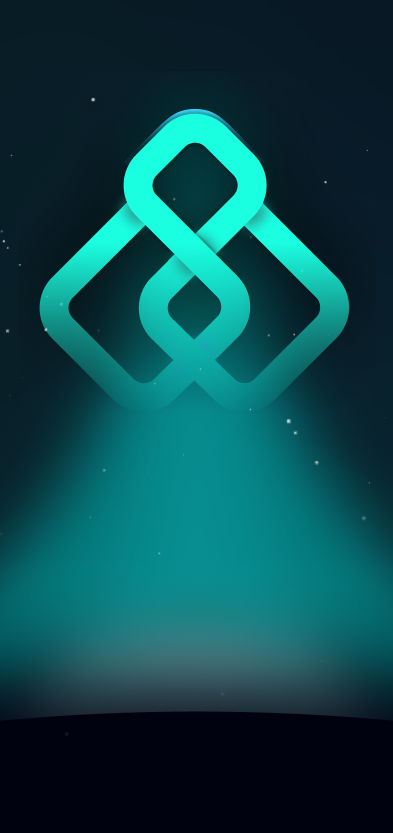
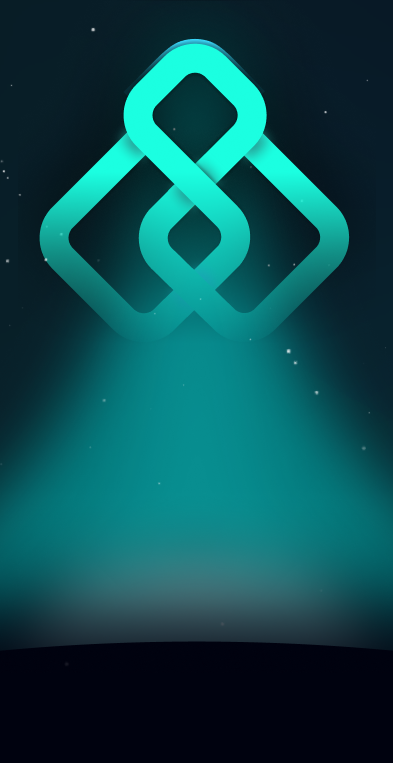
tablet portrait view alignment fixed

Changed region(s): [[0.0916, 0.0301, 0.8855, 0.4823], [0.0611, 0.8139, 0.9771, 0.8742]]

diff --git a/app/components/Topnav.tsx b/app/components/Topnav.tsx
@@ -291,7 +291,7 @@ useEffect(() => {
                 key={item.name}
                 onClick={() => handleMenuClick(item.name)}
                 onMouseEnter={() => handleMenuHover(item.name)}
-                className={` cursor-pointer
+                className={` cursor-pointer font-Poppins
                   relative px-5 py-2.5 rounded-full text-sm md:text-sm lg:text-[10px] xl:text-sm font-medium transition-all duration-300
                   ${
                     activeMenu === item.name
@@ -312,7 +312,7 @@ useEffect(() => {
                   <>
                     {item.name}
                     {item.superscript && (
-                      <sup className="text-xs ml-0.5">{item.superscript}</sup>
+                      <sup className="text-xs ml-0.5 font-Poppins">{item.superscript}</sup>
                     )}
                   </>
                 )}
@@ -330,7 +330,7 @@ useEffect(() => {
             <GradientGlowButton className="scale-90 sm:scale-95 md:scale-100 lg:scale-85">
               Get Started
             </GradientGlowButton>
-            <span className="hidden sm:inline text-xl md:text-xl lg:text-[16px] xl:text-xl   font-medium ml-5">Menu</span>
+            <span className="hidden sm:inline text-xl md:text-xl lg:text-[16px] xl:text-xl font-Poppins font-medium ml-5">Menu</span>
             <button
               onClick={() => setSideMenuOpen(!sideMenuOpen)}
               className="flex items-center gap-2 text-white"
@@ -392,7 +392,7 @@ useEffect(() => {
             <div className="p-8">
               {/* Services Header */}
             <div className="mb-6 lg:px-25 xl:px-50">
-              <h3 className="md:text-xl lg:text-xl xl:text-2xl font-semibold text-white mb-1">Services</h3>
+              <h3 className="md:text-xl lg:text-xl font-Poppins xl:text-2xl font-semibold text-white mb-1">Services</h3>
 
               <svg width="100" height="10" viewBox="0 0 120 12" fill="none">
                 <path
@@ -434,7 +434,7 @@ useEffect(() => {
                         />
                         <span
                         className={`
-                          text-[12px] md:text-[13px] lg:text-[13px] xl:text-[15px] font-medium
+                          text-[12px] md:text-[13px] lg:text-[13px] xl:text-[15px] font-medium font-Poppins
                           ${
                             activeServiceCategory === index
                               ? "text-transparent bg-clip-text bg-[linear-gradient(90deg,#00E6C3_0%,#00E6C3_70%,#FFFFFF_70%,#FFFFFF_100%)]"
@@ -478,7 +478,7 @@ useEffect(() => {
                             text-gray-300
                             group-hover:text-transparent group-hover:bg-clip-text
                             group-hover:bg-[linear-gradient(90deg,#00E6C3_0%,#00E6C3_70%,#FFFFFF_80%,#FFFFFF_100%)]
-                            transition-all duration-300
+                            transition-all duration-300 font-Poppins
                           "
                         >
                             {service}
@@ -512,7 +512,7 @@ useEffect(() => {
                 ${
                   activeMenu === item.name
                     ? "bg-[#2a2a2a] text-white"
-                    : "text-gray-400 hover:bg-[#252525] hover:text-white"
+                    : "text-gray-400 hover:bg-[#252525] hover:text-white font-Poppins"
                 }
                 ${index !== menuItems.length - 1 ? "border-b border-white/10" : ""}
               `}
@@ -542,7 +542,7 @@ useEffect(() => {
                   }
                 }}
                 className={`
-                  flex-1 relative rounded-3xl px-2 py-2 text-[10px] sm:text-xs font-medium transition-all duration-300
+                  flex-1 relative rounded-3xl px-2 py-2 text-[10px] sm:text-xs font-medium transition-all duration-300 font-Poppins
                   ${
                     activeMenu === item.name
                       ? "bg-[radial-gradient(circle_at_50%_50%,#4b4c4e_0%,#4b4c4e_55%,rgba(255,255,255,0.10)_75%,rgba(255,255,255,0.04)_110%,#2b2c2e_110%)] text-cyan-300"
@@ -587,7 +587,7 @@ useEffect(() => {
                   <button
                     onClick={() => toggleMobileCategory(category.name + catIndex)}
                     className={`
-                      w-full flex items-center justify-between px-4 py-3
+                      w-full flex items-center justify-between px-4 py-3 font-Poppins
                       text-left bg-[#00020F] hover:bg-[#1a2b3a] transition-all duration-200
                       rounded-lg
                       border-x border-t border-[#444444] 
@@ -603,7 +603,7 @@ useEffect(() => {
 
                       <span
                         className={`
-                          text-sm font-medium transition-all
+                          text-sm font-medium transition-all font-Poppins
                           ${
                             isOpen
                               ? "text-transparent bg-clip-text bg-[linear-gradient(90deg,#00E6C3_0%,#00E6C3_70%,#FFFFFF_70%,#FFFFFF_100%)]"
@@ -642,7 +642,7 @@ useEffect(() => {
                             hover:bg-[#1a2b3a]
                             hover:bg-clip-text
                             hover:bg-[linear-gradient(90deg,#00E6C3_0%,#00E6C3_70%,#FFFFFF_70%,#FFFFFF_100%)]
-                            transition-all duration-200
+                            transition-all duration-200 font-Poppins
                           "
                         >
                           {service}
@@ -720,7 +720,7 @@ useEffect(() => {
                 alt="Return arrow"
                 className="w-6 h-6"
               />
-              <h2 className="lg:text-md xl:text-xl font-semibold text-white">Who We Are</h2>
+              <h2 className="lg:text-md xl:text-xl font-semibold text-white font-Poppins">Who We Are</h2>
             </div>
 
             {/* Menu Items */}
@@ -740,7 +740,7 @@ useEffect(() => {
                         className="w-full h-full object-cover"
                       />
                     </div>
-                    <span className=" font-bold text-[15px] text-gray-200 group-hover:text-cyan-300 transition-colors">
+                    <span className="font-Poppins font-bold text-[15px] text-gray-200 group-hover:text-cyan-300 transition-colors">
                       {item.name}
                     </span>
                   </div>
@@ -752,11 +752,11 @@ useEffect(() => {
 
             {/* Footer Links */}
             <div className="mt-8 text-center">
-              <a href="#privacy" className="text-white font-bold hover:text-cyan-300 transition-colors text-sm">
+              <a href="#privacy" className="text-white font-Poppins font-bold hover:text-cyan-300 transition-colors text-sm">
                 Privacy Policy
               </a>
               <span className="text-white font-bold mx-1">|</span>
-              <a href="#terms" className="text-white font-bold hover:text-cyan-300 transition-colors text-sm">
+              <a href="#terms" className="text-white font-Poppins font-bold hover:text-cyan-300 transition-colors text-sm">
                 Terms & Conditions
               </a>
             </div>
@@ -820,7 +820,7 @@ useEffect(() => {
                       className="w-full h-full object-cover"
                     />
                   </div>
-                  <span className="text-[15px] font-bold text-gray-200 group-hover:text-cyan-300 transition-colors">
+                  <span className="text-[15px] font-Poppins font-bold text-gray-200 group-hover:text-cyan-300 transition-colors">
                     {item.name}
                   </span>
                 </div>
@@ -832,11 +832,11 @@ useEffect(() => {
 
           {/* Footer Links */}
           <div className="mt-6 text-center">
-            <a href="#privacy" className="text-white hover:text-cyan-300 transition-colors text-sm">
+            <a href="#privacy" className="text-white font-Poppins hover:text-cyan-300 transition-colors text-sm">
               Privacy Policy
             </a>
             <span className="text-white mx-2">|</span>
-            <a href="#terms" className="text-white hover:text-cyan-300 transition-colors text-sm">
+            <a href="#terms" className="text-white font-Poppins hover:text-cyan-300 transition-colors text-sm">
               Terms & Conditions
             </a>
           </div>

diff --git a/app/components/RewardsSection.tsx b/app/components/RewardsSection.tsx
@@ -180,7 +180,7 @@ const RewardsSection: React.FC = () => {
           {awards.map((award) => (
             <div
               key={award.id}
-              className="flex-shrink-0 w-24 h-24 lg:w-50 lg:h-28  rounded-2xl  flex items-center justify-center "
+              className="flex-shrink-0 w-24 h-24   lg:w-50 lg:h-28  rounded-2xl  flex items-center justify-center "
             >
               <img
                 src={award.src}
@@ -252,12 +252,12 @@ const RewardsSection: React.FC = () => {
                   {loopAwards.map((award, index) => (
                     <div
                       key={`${award.id}-${index}`}
-                      className="flex-shrink-0 flex items-center justify-center"
+                      className="flex-shrink-0 flex items-center justify-center sm:rounded-2xl"
                       style={{ width: '33.333%' }}
 
                     >
                       <div
-                        className={`w-50 h-20 rounded-2xl p-1 flex items-center justify-center shadow-lg transition-all duration-300 ${
+                        className={`w-50 h-20 sm:w-40 sm:h-40 rounded-2xl sm:rounded-2xl p-1 sm:p-6 flex items-center justify-center shadow-lg transition-all duration-300 ${
                           Math.abs(index - currentIndex) <= 1
                             ? 'scale-100 opacity-100'
                             : 'scale-90 opacity-60'
@@ -266,7 +266,7 @@ const RewardsSection: React.FC = () => {
                         <img
                           src={award.src}
                           alt={award.alt}
-                          className="w-full h-full object-cover rounded-2xl"
+                          className="w-full h-full object-cover rounded-2xl sm:rounded-2xl"
                           draggable="false"
                         />
                       </div>

diff --git a/app/components/Hero.tsx b/app/components/Hero.tsx
@@ -27,17 +27,19 @@ const Hero = () => {
   ];
 
   return (
-<div
-  className="
-    w-full h-[100dvh] md:h-dvh lg:h-dvh xl:h-dvh
-    flex flex-col items-center
-    bg-cover bg-center bg-no-repeat relative overflow-hidden
-
-    bg-[url('/assets/images/hero-newbanner-mobile.png')]
-    md:bg-[url('/assets/images/hero-new-banner.png')]
-    lg:bg-[url('/assets/images/hero-new-banner.png')]
-  "
->
+    <section className="">
+          <div
+          className="
+            w-full h-[100dvh] md:h-dvh lg:h-dvh xl:h-dvh
+            flex flex-col items-center
+            bg-cover md:bg-center lg:bg-center xl:bg-center bg-no-repeat relative overflow-hidden
+            xl:pt-0 lg:pt-0 md:pt-0
+            bg-[url('/assets/images/hero-newbanner-mobile.png')]
+            sm:bg-[url('/assets/images/hero-newbanner-mobile.png')]
+            md:bg-[url('/assets/images/hero-new-banner.png')]
+            lg:bg-[url('/assets/images/hero-new-banner.png')]
+          "
+        >
 
      
 
@@ -91,7 +93,7 @@ const Hero = () => {
       </div>
 
       {/* Main Content */}
-      <div className="w-full flex-1 flex flex-col justify-center items-center px-4 mt-[65%] md:mt-[20%] lg:mt-[16%] xl:mt-[11%]  sm:px-6 md:px-10">
+      <div className="w-full flex-1 flex flex-col justify-center items-center px-4 mt-[65%] sm:mt-[75%] md:mt-[20%] lg:mt-[16%] xl:mt-[11%]  sm:px-6 md:px-10">
 
 
       <h1 className="
@@ -118,6 +120,7 @@ const Hero = () => {
         </GradientGlowButton>
       </div>
     </div>
+    </section>
   );
 };
 

diff --git a/app/components/BlockchainNetworks.tsx b/app/components/BlockchainNetworks.tsx
@@ -153,7 +153,7 @@ export default function BlockchainNetworks() {
     networks.find(n => n.id === activeNetwork) || networks[1];
 
   return (
-    <section className="relative min-h-screen bg-[#0a0e1a] py-20  md:py-10 md:px-2 lg:py-10 lg:px-2 xl:py-20 xl:px-2">
+    <section className="relative  md:h-unset lg:min-h-screen xl:min-h-screen bg-[#0a0e1a] py-20  md:py-10 md:px-2 lg:py-10 lg:px-2 xl:py-20 xl:px-2">
 
       <div className="max-w-7xl mx-auto">
 
@@ -172,8 +172,9 @@ export default function BlockchainNetworks() {
 
           {/* TABS */}
           <div className="grid grid-cols-6 gap-4
+                           sm:grid-cols-6
                           max-md:grid-cols-5 poin 
-                          max-sm:grid-cols-3 p-5 md:p-8 lg:p-8 xl:p-8 bg-[#12141E] md:rounded-t-3xl lg:rounded-t-3xl xl:rounded-t-3xl ">
+                           p-5 sm:p-5 md:p-8 lg:p-8 xl:p-8 bg-[#12141E] md:rounded-t-3xl lg:rounded-t-3xl xl:rounded-t-3xl ">
 
             {networks.map((network) => {
               const active = activeNetwork === network.id;
@@ -210,7 +211,7 @@ export default function BlockchainNetworks() {
 
                   <img
                     src={network.logo}
-                    className="w-auto md:w-[100%] lg:w-auto xl:w-auto object-cover p-4"
+                    className="w-auto md:w-[100%] lg:w-auto xl:w-auto object-cover sm:p-6"
                   />
                 </button>
               );

diff --git a/app/components/IndustriesSection.tsx b/app/components/IndustriesSection.tsx
@@ -30,11 +30,11 @@ const IndustriesSection = () => {
         </div>
 
         {/* Industries Grid */}
-        <div className="grid grid-cols-2 sm:grid-cols-3 md:grid-cols-5 lg:grid-cols-5 gap-2 md:gap-3 lg:gap-5 xl:gap-5 sm:gap-2">
+        <div className="grid grid-cols-2 sm:grid-cols-5 md:grid-cols-5 lg:grid-cols-5 gap-2 md:gap-3 lg:gap-5 xl:gap-5 sm:gap-2">
           {industries.map((industry, index) => (
             <div
               key={index}
-              className="bg-linear-to-br from-[#3c3d47] to-[#13171f] rounded-2xl p-3 sm:p-8 md:p-3 lg:p-5 xl:p-5 flex flex-col items-center justify-center text-center hover:from-[#1f2535] hover:to-[#161b26] transition-all duration-300 cursor-pointer group"
+              className="bg-linear-to-br from-[#3c3d47] to-[#13171f] rounded-2xl p-3 sm:p-2 md:p-3 lg:p-5 xl:p-5 flex flex-col items-center justify-center text-center hover:from-[#1f2535] hover:to-[#161b26] transition-all duration-300 cursor-pointer group"
             >
               {/* Image Container */}
               <div className="w-16 h-16 xl:w-25 xl:h-25 sm:w-20 sm:h-20 md:w-15 md:h-15 rounded-full bg-gradient-to-br from-[#0f1419] to-[#1a1f2e] flex items-center justify-center mb-4 sm:mb-6 group-hover:scale-110 transition-transform duration-300">

diff --git a/app/components/ContactSection.tsx b/app/components/ContactSection.tsx
@@ -5,7 +5,7 @@ const ContactSection: React.FC = () => {
     <section className="w-full bg-[#00020f]  md:py-16 lg:py-20">
       <div className="max-w-7xl mx-auto">
         {/* Desktop View - Gradient Box with Rounded Corners */}
-        <div className="hidden md:block bg-gradient-to-r  rounded-[15px] px-12 py-10 lg:px-16 lg:py-12 relative overflow-hidden"
+        <div className="hidden md:block bg-gradient-to-r  rounded-[15px] px-12 py-10 lg:px-16 lg:py-12 xl:px-10 xl:py-6  relative overflow-hidden"
             style={{
                 background: `
                 linear-gradient(
